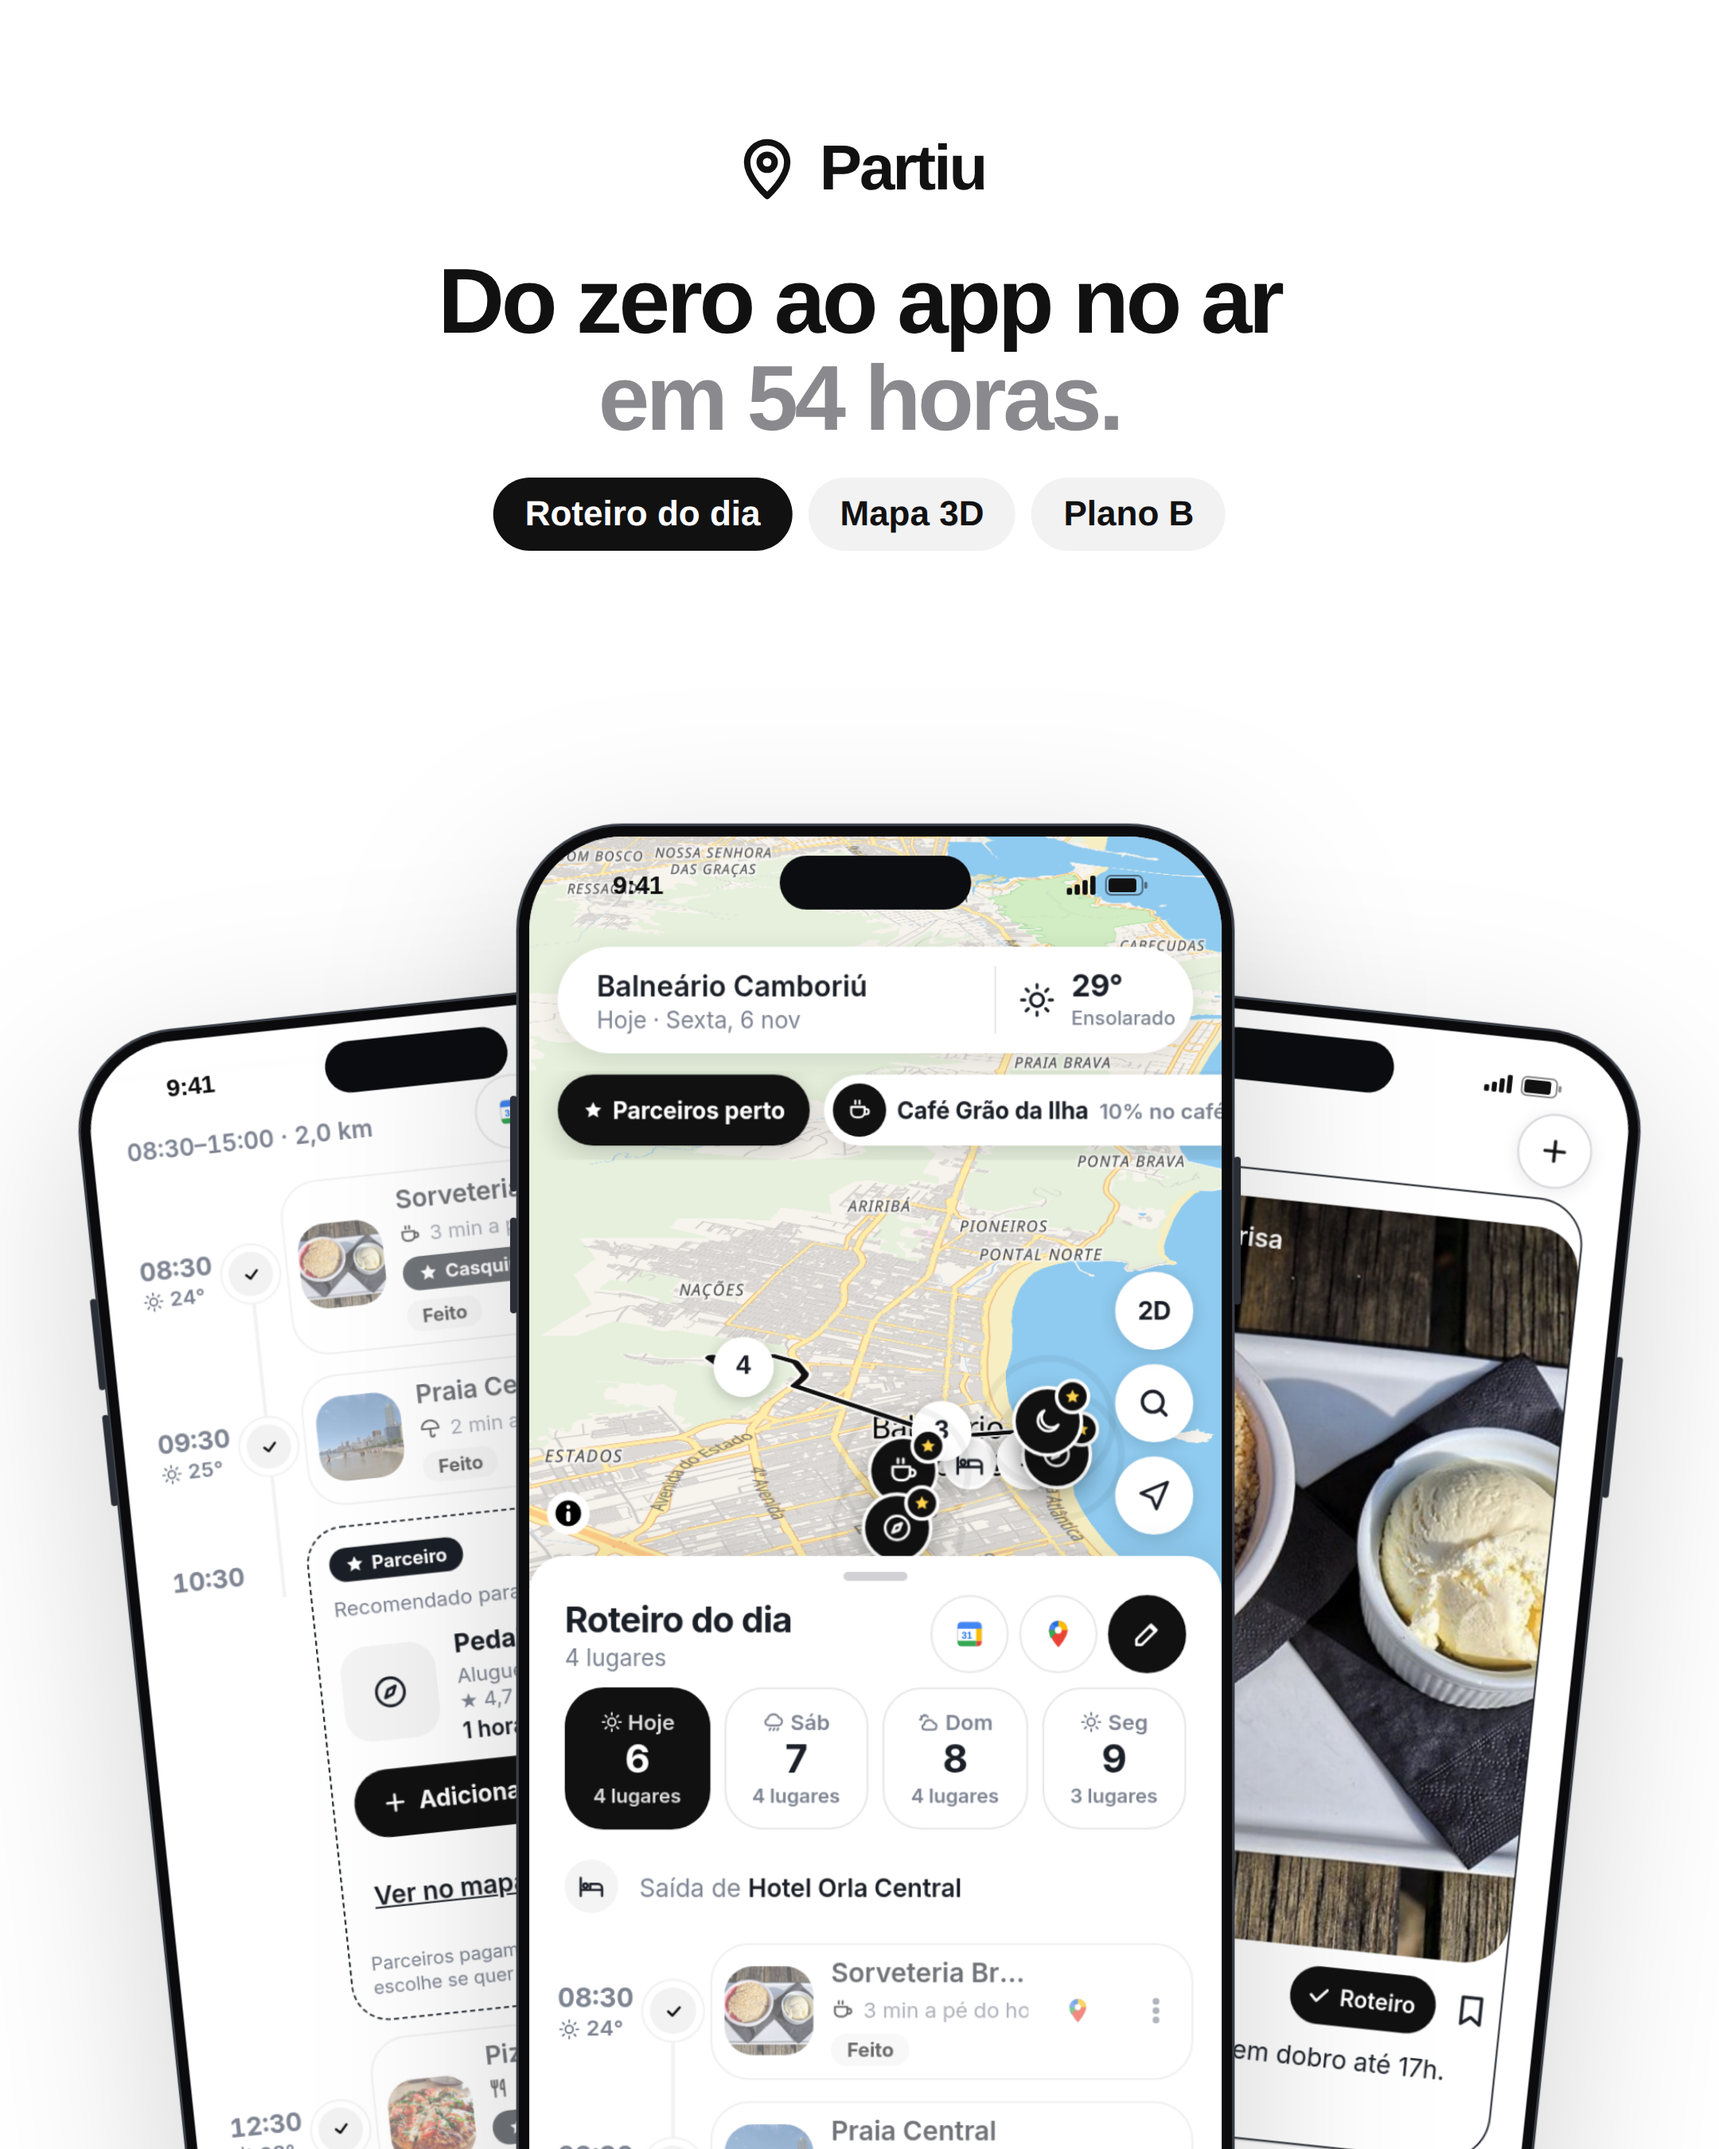
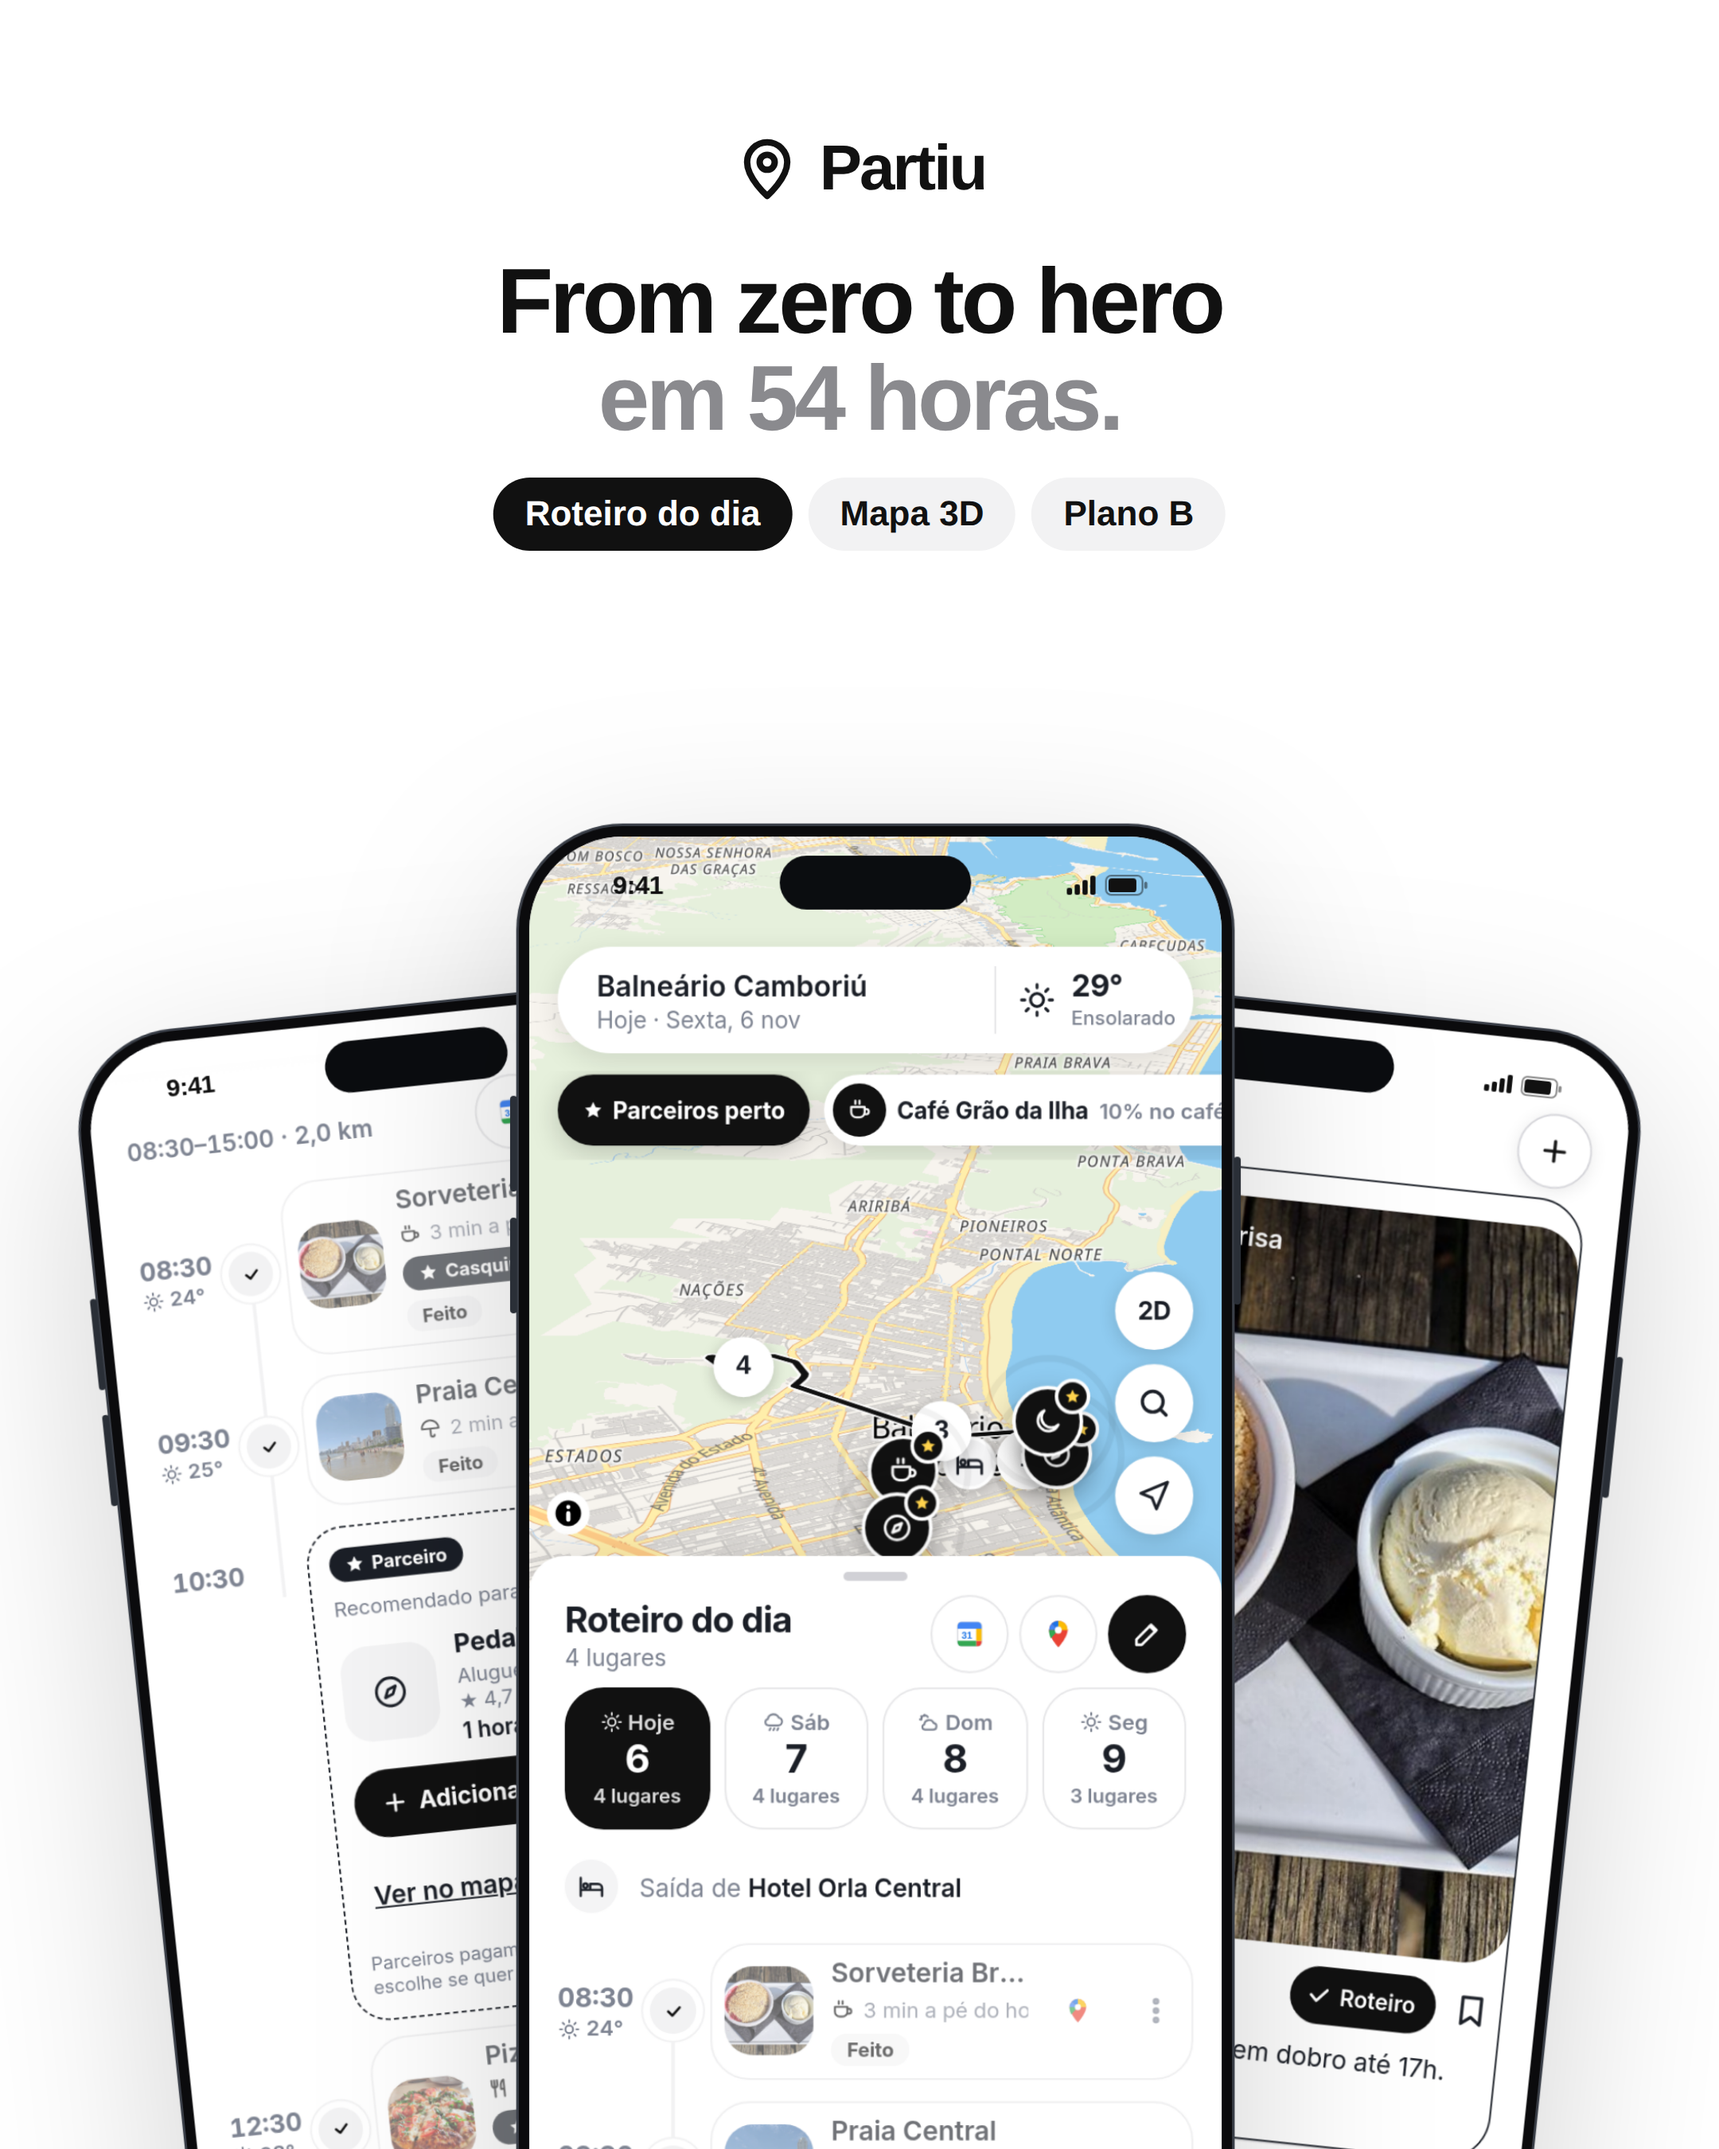
LinkedIn: imagem do app com From zero to hero em 54 horas

Changed region(s): [[0.2481, 0.1244, 0.7444, 0.1556]]

diff --git a/pitch/linkedin/gerar.py b/pitch/linkedin/gerar.py
@@ -22,7 +22,7 @@ h1 span{{color:#8a8a8e}}
 .tag span.l{{background:#f2f2f3;color:#111}}
 </style>
 <div class="top"><div class="logo"><img src="{pin}">Partiu</div>
-<h1>Do zero ao app no ar<br><span>em 54 horas.</span></h1></div>
+<h1>From zero to hero<br><span>em 54 horas.</span></h1></div>
 <div class="tag"><span>Roteiro do dia</span><span class="l">Mapa 3D</span><span class="l">Plano B</span></div>
 <img class="ph a" src="{b64('parceiro-roteiro')}"><img class="ph c" src="{b64('parceiro-feed')}"><img class="ph b" src="{b64('explorar')}">'''
 p = os.path.join(HERE, '_p.html'); open(p, 'w').write(html)
